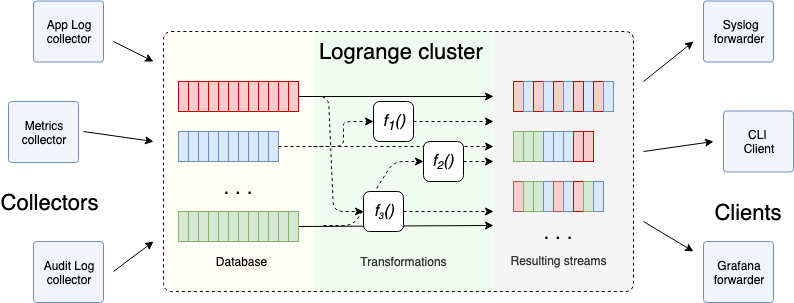
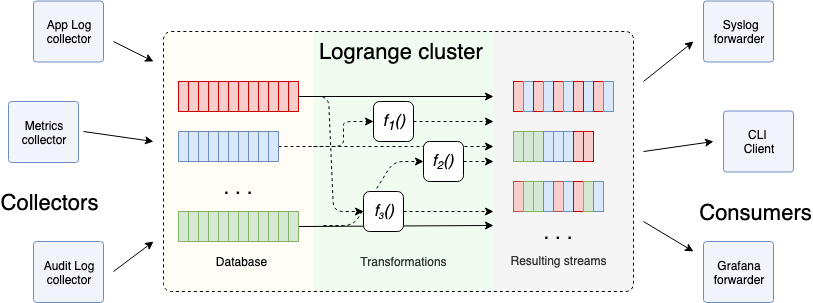
readme

diff --git a/README.md b/README.md
@@ -1,11 +1,71 @@
 [![Go Report Card](https://goreportcard.com/badge/logrange/logrange)](https://goreportcard.com/report/logrange/logrange) [![Build Status](https://travis-ci.org/logrange/logrange.svg?branch=master)](https://travis-ci.org/logrange/logrange) [![License](https://img.shields.io/badge/License-Apache%202.0-blue.svg)](https://github.com/logrange/logrange/blob/master/LICENSE)
 
-# Logrange - distributed data aggregation system
-Logrange is high performance distributed data aggregation system. It allows to persist massive data streams (literally the write speed could be hundreds of MBytes per second on a commodity machine). System could be scaled by traffic and the storage size, by adding new machines to the cluster. Logrange is tolerant to database size, what means that the data write, access and processing speed does not depend on the datastorage size. Logrange will be effective with managing giga-, tera- or even peta-bytes of data, what makes it be ideally used for:
-* log aggregation and log-data management
-* collecting data metrics and to build statistics over it
-* storing and blazingly fast processing data streams
-* running on premises, containerized, VM-based or as a cloud log-aggregation service
+# Logrange - streaming database 
+Logrange is highly performant streaming database, which allows to aggregate, structuring and persisting streams of records like application logs, system metrics, audit logs etc. Logrange persists input streams on the disk and provides an API for accessing the stored data.
 
-Logrange is simple, but it has wide configuration flexibility, what allows to run Logrange as standalone or a cluster of machines to be run on different platforms. It is one executable for target platform, which is in simplest configuration could be run on a laptop within seconds.
+## What exactly does that mean?
+Modern systems can consist of thousands of different sub-systems and applications, which usually write information about their activity into a file or application log. The application log is a stream of records, where the records appear in the order of writing them into the log.
+
+Logrange allows to collect the logs in a very efficient manner and store the log records on the disk for further processing.
+
+The data, which can be stored in the database is not limited by the application logs only. For example, other streaming data like System metrics, autdit logs, application events could be stored into Logrange as well.
+
+## What does Logrange allow to do?
+Logrange does the following things: 
+* Collecting streams of records in different formats from multiple sources 
+* Accessing to the aggregated data via API, which allows searching, merging, and filtering data from different streams of records.
+* Forwarding filtered or all aggregated data to 3rd party systems.
+
+## What about other log aggregation solutions? How Logrange is different?
+Logrange is intended for storing thousands of streams of records, like application logs, allowing millions writes per second. The disk structures Logrange uses scale well, so its performance doesn't depend on how big the stored data is - either it is megabytes or terabytes of the data.
+
+Logrange is focused on streams processing, but not on the data indexing. It is not indended for full text search, even though we do support features like `search` in Logrange as well. Logrange is optimized to work with streams of records and big arrays of the log data.
+
+Moreover, Logrange allows to store not only application logs, but any streaming data, which could be collected from 3rd party system. This makes Logrange an integration tool of different types of streams collected from different sources and stored in one databas sutable for furhter processing.
+
+The features like analytics, statistics and data learning could be easily built on top of Logrange database.
+
+# Introduction
+Logrange database be run as stand-alone application or as a cluster (distributed system which consists of multiple instances). It provides an API which can be used for writing by _Collectors_ - software clients which `writes` input streams of records into the Logrange database. Another type of clients are _Consumers_ that use Logrange API for retrieving data and sending it to another system for further processing or just show it to a user in interactive manner:
+
+![Logrange Structure](https://raw.githubusercontent.com/logrange/logrange/master/doc/pics/Logrange%20Structure.png)
+
+## Data structures
+Logrange recognizes the following entities:
+* _stream_ - a sequence of _records_. Every stream contains zero or a natural number of records.
+* _source_ - is a input stream of _records_ which is written by one or many collectors
+* _tags_ - is a combination of key-value pairs, applied to a _source_
+* _record_ - is an atomic piece of information from a _stream_. Every _record_ contains 2+fields.
+* _field_ - is a key-value pair, which is part of a record.
+### Sources and tags
+In Logrange every persisted stream of records is recoginized as a _source_. Every _source_ has an unique combination of _tags_. _tags_ are a comma separated key-value pairs written in the form like:
+```
+name=application1,ip="127.0.0.1"
+```
+To address a stream for `write` operation an unique combintaion of _tags_ must be provided. For example, Collector, when writes records for as stream, must provide _tags_ combination that idenfies the source uniqueuly. 
+
+To select one or more sources the condition of tags should be provided. For example:
+* `name=application1,ip="127.0.0.1"` - select ALL sources which tags contain `name=application1` and `ip="127.0.0.1"`
+* `name=application1 OR ip="127.0.0.1"` - selects all sources which tags contain either `name=application1` pair, or `ip="127.0.0.1"`pair, or both of them
+* `name LIKE 'app*'` - selects all sources which tags contain key-value pair with the key="name" and the value which starts from "app"
+etc.
+
+### Records and fields
+A _stream_ consists of ordered _records_. Every record contains 2 mandatory fields and 0 or more optional, custom fields. The mandatory fields are:
+* `ts` - the records timestamp. It is set by Collector and it can be 0
+* `msg` - the record content. This is just a slice of bytes which can be treated as a text.
+Optional fields are key-value pairs, which value can be addressed by the field name with `fields:` pfrefix. Fields can be combined to expressions. For example:
+* `msg contains "abc"` - matches records, for which `msg` field contains text "abc"
+* `msg contains "ERROR" AND fields:name = "app1"` - matches records, for which `msg` field contains text "ERROR" AND the field with the key="name" has value="app1"
+etc.
+
+## Main components
+### Aggregator
+### Clients
+#### Log Collector
+#### CLI tool
+#### Log Forwarder
+## Logrange Query Language (LQL)
+# Available Configurations
+# Roadmap
 
